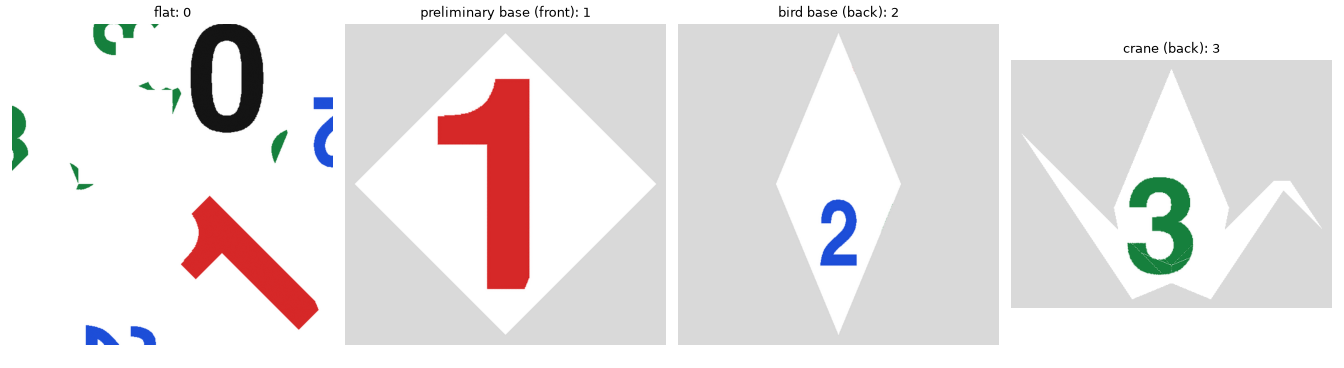
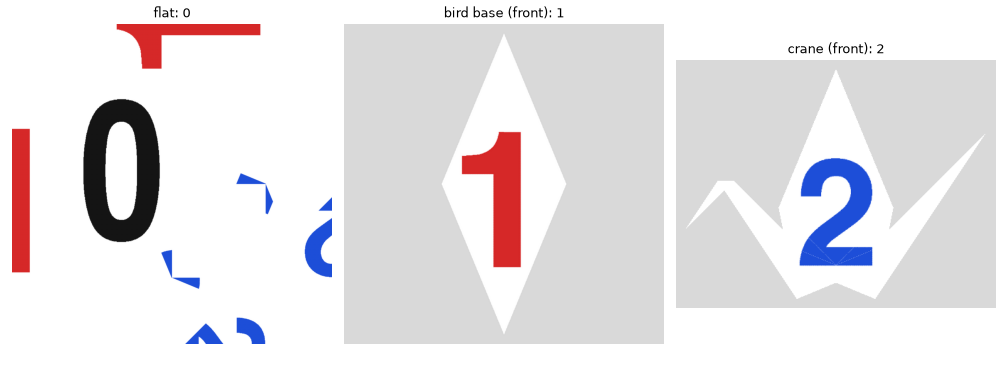
Folding story: three parts by default (flat, bird base, crane), selectable stages, metamorphosis prompts

diff --git a/2026-10-31-fold-map/story.py b/2026-10-31-fold-map/story.py
@@ -1,7 +1,8 @@
 """Folding story: a different picture at each stage of folding a crane.
 
-    python story.py                  # 0 flat, 1 preliminary base, 2 bird base, 3 crane
-    python story.py --text ABCD      # any four characters
+    python story.py                  # 0 flat, 1 bird base, 2 crane
+    python story.py --text ABC       # any three characters
+    python story.py --stages "preliminary base" "bird base" crane    # 0, 1, 2, 3
 
 The pictures are single characters, so no generative model is needed. Each later stage's
 character is sized, placed and stretched to fit inside what that stage shows, choosing the
@@ -36,6 +37,21 @@ STAGES = [
     ("bird base", "stages/bird_cp.fold", "stages/bird_state.fold", (B, A)),
     ("crane", "004_traditional_Crane_cp.fold", "004_traditional_Crane_state.fold", None),
 ]
+# The preliminary base is left out by default: each of its faces is one uncut quarter of the sheet,
+# so its picture sits on the flat sheet intact. The bird base and crane cut their paper into 2 and
+# about 10 pieces, and with the sides least_shared_sides picks, they share no paper.
+DEFAULT_STAGES = ["bird base", "crane"]
+
+
+def load_stages(names=DEFAULT_STAGES):
+    """The stages to fold through, in folding order, picked by name (None: all of STAGES).
+    Returns (stages, models): the STAGES entries and their FoldedModels."""
+    stages = [st for st in STAGES if names is None or st[0] in names]
+    if names is not None and len(stages) != len(names):
+        raise ValueError(f"unknown stage in {names}; choose from {[st[0] for st in STAGES]}")
+    return stages, [FoldedModel(os.path.join(HERE, cp), os.path.join(HERE, st)) for _, cp, st, _ in stages]
+
+
 COLORS = [(20, 20, 20), (214, 40, 40), (29, 78, 216), (22, 128, 61)]   # one per character, in story order
 
 
@@ -179,7 +195,7 @@ def intact(ink, sv):
     return counts.max() / counts.sum() if len(counts) else 1.0
 
 
-def plan(text, models, res=160, canvas=160, weight=4.0, scatter=2.0):
+def plan(text, stages, models, res=160, canvas=160, weight=4.0, scatter=2.0):
     """Choose a side for each stage and a placement for every character.
 
     Returns (views, placements, report): the StageView for each folded stage, (cx, cy, w, h)
@@ -190,7 +206,7 @@ def plan(text, models, res=160, canvas=160, weight=4.0, scatter=2.0):
     best = None
     for sides in itertools.product(["front", "back"], repeat=len(models)):
         views = [StageView(name, m, side, upright_turn(m, side, up), res)
-                 for (name, _, _, up), m, side in zip(STAGES, models, sides)]
+                 for (name, _, _, up), m, side in zip(stages, models, sides)]
         glyphs = [glyph(ch) for ch in text[1:]]
         cands = [fit_candidates(g, v.outline(canvas)) for g, v in zip(glyphs, views)]
         inks = [[ink_on_sheet(g, p, v) for _, p in c] for g, v, c in zip(glyphs, views, cands)]
@@ -254,14 +270,14 @@ def least_shared_sides(models, res=160):
     return list(min(options, key=lambda sides: (max(sh := shared_paper(models, sides, res)), sum(sh))))
 
 
-def stage_views(models, sides, res, seed=0):
+def stage_views(stages, models, sides, res, seed=0):
     """FoldViews for each stage at `res` pixels, held upright, as (FoldViews, side) pairs for
     illusion.generate."""
     return [(FoldViews(m, res, seed, turn={side: upright_turn(m, side, up)}), side)
-            for m, side, (_, _, _, up) in zip(models, sides, STAGES)]
+            for m, side, (_, _, _, up) in zip(models, sides, stages)]
 
 
-def plot_story(sheet, models, sides, titles, res=450):
+def plot_story(sheet, stages, models, sides, titles, res=450):
     """The printed side flat, then each stage folded from it. The folding uses decal.simulate,
     independently of the pixel maps used to make the sheet, so this doubles as a check."""
     from decal import simulate
@@ -271,7 +287,7 @@ def plot_story(sheet, models, sides, titles, res=450):
     fig, axes = plt.subplots(1, len(models) + 1, figsize=(4.2 * (len(models) + 1), 4.6))
     axes[0].imshow(big)
     axes[0].set_title(titles[0])
-    for ax, m, side, (_, _, _, up), title in zip(axes[1:], models, sides, STAGES, titles[1:]):
+    for ax, m, side, (_, _, _, up), title in zip(axes[1:], models, sides, stages, titles[1:]):
         sim, _ = simulate(m, {2: dict(color=raw, printed=np.ones(raw.shape[:2], bool))}, res=res)
         img = Image.fromarray((sim[side] * 255).round().astype(np.uint8))
         img = img.rotate(-upright_turn(m, side, up), Image.BICUBIC, expand=True, fillcolor=(217, 217, 217))
@@ -285,15 +301,19 @@ def plot_story(sheet, models, sides, titles, res=450):
 
 def main():
     ap = argparse.ArgumentParser(description=__doc__, formatter_class=argparse.RawDescriptionHelpFormatter)
-    ap.add_argument("--text", default="0123", help="one character per stage: flat, then each folded stage")
+    ap.add_argument("--stages", nargs="+", default=DEFAULT_STAGES, metavar="STAGE",
+                    help="stages to fold through, from: " + ", ".join(f'"{st[0]}"' for st in STAGES)
+                    + " (default: " + ", ".join(f'"{n}"' for n in DEFAULT_STAGES) + ")")
+    ap.add_argument("--text", default=None, help="one character per stage: flat, then each folded stage (default 0, 1, 2, ...)")
     ap.add_argument("--scatter", type=float, default=2.0,
                     help="how much to prefer characters split across pieces of paper, so they don't read when flat")
     ap.add_argument("--res", type=int, default=1800, help="printed sheet size in pixels (1800 = 15 cm at 300 dpi)")
     args = ap.parse_args()
-    if len(args.text) != len(STAGES) + 1:
-        ap.error(f"--text needs {len(STAGES) + 1} characters")
-    models = [FoldedModel(os.path.join(HERE, cp), os.path.join(HERE, st)) for _, cp, st, _ in STAGES]
-    views, places, report = plan(args.text, models, scatter=args.scatter)
+    stages, models = load_stages(args.stages)
+    args.text = args.text or "0123456789"[:len(stages) + 1]
+    if len(args.text) != len(stages) + 1:
+        ap.error(f"--text needs {len(stages) + 1} characters")
+    views, places, report = plan(args.text, stages, models, scatter=args.scatter)
     for v in views:
         print(f"{v.name}: {v.view} side, turned {v.turn:.0f} degrees")
     for k, c in report.items():
@@ -301,7 +321,7 @@ def main():
     printed, _ = render(args.text, models, views, places, args.res)
     Image.fromarray(printed).save("story_sheet.png", dpi=(args.res / 150 * 25.4,) * 2)
     titles = [f"flat: {args.text[0]}"] + [f"{v.name} ({v.view}): {ch}" for v, ch in zip(views, args.text[1:])]
-    plot_story(printed.astype(float) / 255, models, [v.view for v in views], titles).savefig("story_preview.png", dpi=80)
+    plot_story(printed.astype(float) / 255, stages, models, [v.view for v in views], titles).savefig("story_preview.png", dpi=80)
     print("wrote story_sheet.png and story_preview.png")
 
 

diff --git a/2026-10-31-fold-map/README.md b/2026-10-31-fold-map/README.md
@@ -70,12 +70,14 @@ A city street at night (oil painting) flat, a red fox on the front and a white o
 
 ## Folding story: a picture at every stage
 
-[`story.ipynb`](story.ipynb) and [`story.py`](story.py) make one sheet that shows a different picture flat, as a preliminary base, as a bird base, and as the finished crane (for example a field of leaves, a bud, a half-open flower, a flower in full bloom).
+[`story.ipynb`](story.ipynb) and [`story.py`](story.py) make one sheet that shows a different picture at each stage of folding. By default the story has three parts: flat, bird base, crane (for example leaves, a chrysalis, a butterfly). The preliminary base is available too.
 
 - **The stages.** [`make_stages.py`](make_stages.py) writes crease patterns for the two bases on the crane's sheet, with creases that match the crane's, and solves them with Flat-Folder's own solver, run outside the browser by [`ff_solve.mjs`](ff_solve.mjs). That script reproduces the crane state exported from the website exactly. The results are in `stages/`. Both bases leave the BD diagonal unfolded; folding it doubles each base over.
-- **Digits (CPU).** `python story.py` places 0, 1, 2, 3 so they compete for as few pixels as possible. It shows the core difficulty: each face of the preliminary base is an uncut quarter of the sheet, so its picture is readable flat. The bird base shows 2 pieces of paper, the crane about 10.
-- **Generated (GPU).** The DeepFloyd sampler in `illusion.py` now takes any list of folded views, from any models. The notebook runs it with the flat sheet plus the three stages, each with its own prompt, so later pictures can hide in the texture of earlier ones.
-- **First GPU run.** With the digits 1, 2, 3 (pencil drawings on a "geometric mess"), the 1 vanished into the flat scene, and the 2 and 3 blurred into each other. The reason: consecutive stages show a lot of the same paper, because folding keeps much of the outside on the outside. With the sides used, 53% of the crane's visible paper also showed on the bird base. The notebook now picks sides by how much of each stage's own paper is shared (`least_shared_sides`; for the crane, the finished crane shares none and the two bases share 41% and 50%), and the default story is a transformation whose stages can share strokes: a bud opening into a flower.
+- **Digits (CPU).** `python story.py` places 0, 1, 2 (or 0 to 3 with `--stages "preliminary base" "bird base" crane`) so they compete for as few pixels as possible. It shows the core difficulty: each face of the preliminary base is an uncut quarter of the sheet, so its picture is readable flat. The bird base shows 2 pieces of paper, the crane about 10.
+- **Generated (GPU).** The DeepFloyd sampler in `illusion.py` now takes any list of folded views, from any models. The notebook runs it with the flat sheet plus each stage, each with its own prompt, so later pictures can hide in the texture of earlier ones.
+- **First GPU run.** With the digits 1, 2, 3 (pencil drawings on a "geometric mess"), the 1 vanished into the flat scene, and the 2 and 3 blurred into each other. The reason: consecutive stages show a lot of the same paper, because folding keeps much of the outside on the outside. With the sides used, 53% of the crane's visible paper also showed on the bird base. The notebook now picks sides by how much of each stage's own paper is shared (`least_shared_sides`; for the crane, the finished crane shares none and the two bases share 41% and 50%), and the next default story was a bud opening into a flower.
+- **Second GPU run.** The flowers came out as roughly the same pink flower at every stage, so the story had no distinct beats; the flat sheet showed the preliminary base's flower in its corner; and the bird base drew a bud on a stem whatever it was asked for, because that fits its tall diamond. Lessons: give each stage a distinct subject and color, and fit each subject to its outline.
+- **Three parts by default.** The preliminary base is now left out: its picture can't hide (one uncut piece), and it shared half its paper with the bird base. Without it, the bird base and crane share no paper, and the flat picture has 67% of the sheet to itself (53% before). The default story is leaves, a hanging chrysalis (the bird base's tall diamond), and a monarch butterfly (the crane's wings). What makes a stage good is scrambling the paper, not being small.
 
 ## Next
 
